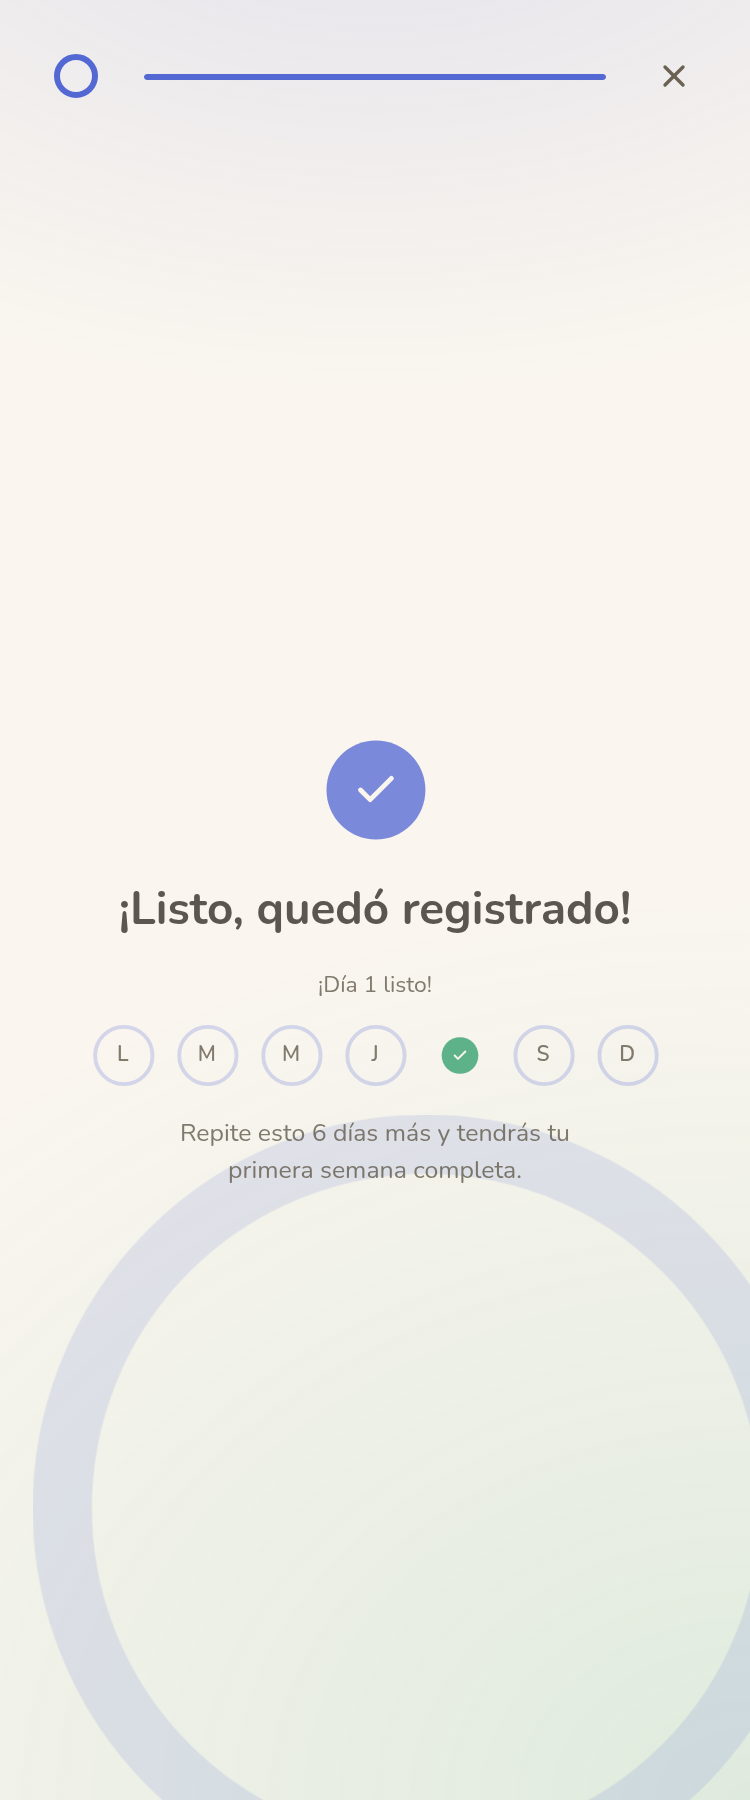
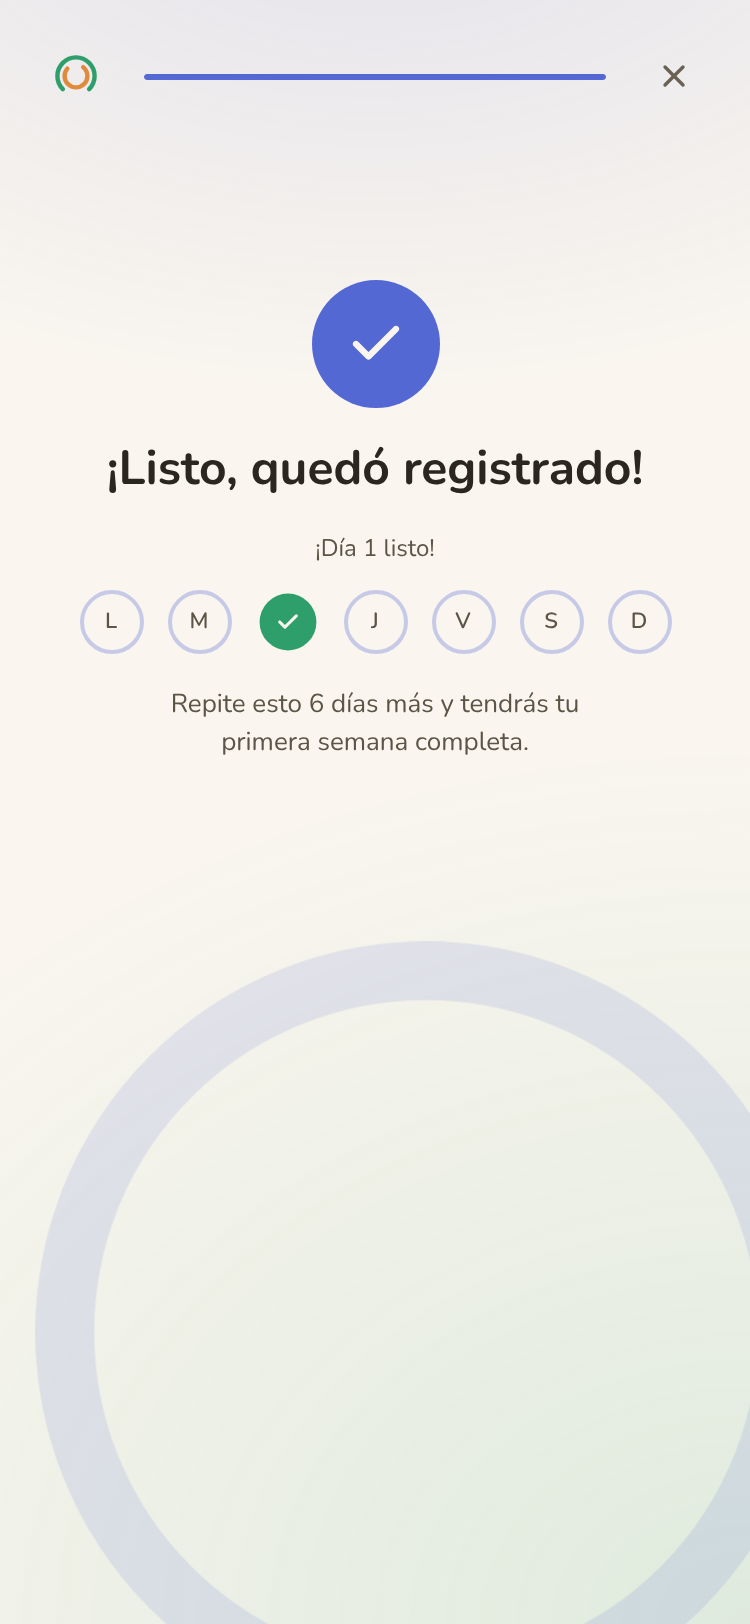
fix: quitar el espacio vacío del paso de compromiso en onboarding
Las 2 pantallas del paso de compromiso (sostener el botón, y "¡Listo!")
centraban el contenido en toda la altura disponible, dejando un hueco
vacío grande arriba del título. Ahora el contenido se ancla cerca del
encabezado y el anillo decorativo existente le da peso visual a la parte
baja.

Claude-Session: https://claude.ai/code/session_013BYtLeMwZuWh58hVzwvyD5

diff --git a/app/onboarding/page.tsx b/app/onboarding/page.tsx
@@ -238,7 +238,7 @@ export default function Onboarding() {
             initial={{ opacity: 0, scale: reduce ? 1 : 0.85 }}
             animate={{ opacity: 1, scale: 1 }}
             transition={{ duration: reduce ? 0.15 : 0.45, ease: [0.16, 1, 0.3, 1] }}
-            className="flex flex-1 flex-col items-center justify-center gap-4 text-center"
+            className="flex flex-1 flex-col items-center gap-4 pt-12 text-center"
           >
             <motion.span
               aria-hidden="true"
@@ -258,7 +258,7 @@ export default function Onboarding() {
             </p>
           </motion.div>
         ) : (
-          <div className="flex flex-1 flex-col items-center justify-center gap-10 text-center">
+          <div className="flex flex-1 flex-col items-center gap-10 pt-12 text-center">
             <div>
               <h2 className="text-balance text-[24px] font-bold leading-[1.2] text-[var(--text-primary)] [font-family:var(--font-display)]">
                 ¿Lista para tu primer Semáforo?

diff --git a/ESTADO.md b/ESTADO.md
@@ -1,6 +1,24 @@
 # ESTADO — Respira
 Última actualización: 2026-11-04 | Sesión actual: 7
 
+⏸ CHECKPOINT (2026-11-04, noche) — espacio vacío del paso de compromiso del onboarding,
+RESUELTO. De los 3 pendientes que la usuaria decidió dejar como estaban hace un rato, volvió
+sobre uno y pidió corregirlo explícitamente ("este me parece importante"): el hueco vacío grande
+arriba del título en las 2 pantallas del paso de compromiso (antes de sostener el botón, y la de
+"¡Listo, quedó registrado!"). Causa raíz: el bloque de contenido se centraba verticalmente en toda
+la altura disponible (`justify-center` en un contenedor alto) — al ser contenido corto, el espacio
+sobrante quedaba repartido arriba y abajo, y el de arriba se sentía "vacío" sin nada que lo
+ancle cerca del encabezado. Fix: se quitó el centrado y se ancló el contenido cerca de arriba con
+aire razonable (`pt-12`, 48px de la escala del proyecto) en los 2 estados — el anillo decorativo
+de fondo (ya existente, `FunnelFondo`) sigue dándole peso visual a la parte baja, que no queda
+vacía tampoco. Cambiado en `app/onboarding/page.tsx` (paso 6, ambos estados). Verificado: tsc ✓
+build ✓ · capturas reales a 375px en `docs/revisiones/onboarding-compromiso-antes-375.png` y
+`onboarding-celebracion-375.png`. Nota agregada en `docs/revisiones/onboarding-veredicto.md`. Los
+otros 4 defectos conocidos de esa pantalla (botón "Salir sin guardar", aviso de punto sin retorno,
+barra de progreso al 100% antes de tiempo, "Seguir aquí" mal etiquetado) y los otros 2 pendientes
+que la usuaria dejó así (anillo del Hero, detalles chicos) siguen sin tocarse — no re-abrir sin
+que ella lo pida. Pendiente: que la usuaria confirme viendo la captura real.
+
 ⏸ CHECKPOINT (2026-11-04, noche) — revisión de 2 pendientes viejos (landing/onboarding), de la
 sección "Problemas conocidos" que databan de septiembre. La usuaria pidió verlos de nuevo con
 capturas reales (le mostré landing-hero, landing "¿Te suena?", y los 2 pasos de compromiso del
@@ -871,7 +889,7 @@ App de hábito diario que acompaña a mujeres 25-35 LATAM a dejar de gastar por 
 ## Problemas conocidos ⚠
 - onboarding: APROBADO POR LA USUARIA EN SUSTANCIA (ver "Puertas de etapa") tras 16 pasadas del revisor-visual. Quedan 5 pendientes conocidos, NO bloqueantes, aceptados así por la usuaria el 2026-09-18 (detalle completo en docs/revisiones/onboarding-veredicto.md, sección "Decisión de la usuaria"):
   1. Botón "Salir sin guardar" del aviso de salida no cambia a "Salir" cuando ya te comprometiste — contradice el mensaje de arriba ("tu compromiso ya quedó guardado").
-  2. Las 2 pantallas del compromiso (antes de sostener el botón, y la de "¡Listo, quedó registrado!") tienen casi la mitad de la pantalla vacía arriba del título — confirmado con capturas reales en docs/revisiones/vivo/.
+  2. RESUELTO (2026-11-04) — las 2 pantallas del compromiso tenían casi la mitad de la pantalla vacía arriba del título. Causa: el bloque se centraba verticalmente en toda la altura disponible; al ser contenido corto, dejaba un hueco grande arriba y abajo. Fix: se quitó el centrado vertical y se ancló el contenido cerca del encabezado con aire razonable (48px) — el anillo decorativo de fondo llena la parte baja, así no queda vacía tampoco ahí. Ver nota completa en docs/revisiones/onboarding-veredicto.md.
   3. Sostener el botón para comprometerse es un punto sin retorno a las preguntas anteriores, y nada lo avisa antes de soltar el dedo.
   4. La barra de progreso llega a 100% antes de completar el gesto de sostener — comunica "ya terminaste" cuando falta el paso más importante.
   5. El botón "Seguir aquí" del aviso de salida, cuando ya te comprometiste, en realidad te lleva a la pantalla de planes — el texto no calza con la acción.

diff --git a/docs/revisiones/onboarding-veredicto.md b/docs/revisiones/onboarding-veredicto.md
@@ -87,3 +87,24 @@ a la Sesión 5 dejando estos 5 puntos anotados como pendientes conocidos**, sin 
 iterando esta pantalla ahora. No re-abrir esta pantalla ni volver a lanzar el
 revisor-visual sobre ella sin que la usuaria lo pida — queda **APROBADA POR LA USUARIA EN
 SUSTANCIA**, igual que la landing en la Sesión 3.
+
+## Actualización (2026-11-04) — defecto 2 RESUELTO
+
+La usuaria volvió a ver las capturas reales (Sesión 7) y pidió explícitamente corregir el
+defecto 2 (espacio vacío grande arriba del título, en las 2 pantallas del paso de
+compromiso) — dijo "este me parece importante". Causa raíz: el bloque de contenido de
+ambos estados usaba `justify-center` dentro de un contenedor `flex-1` alto; como el
+contenido (título+botón+preview, o check+título+preview) es corto, centrarlo verticalmente
+en toda la altura disponible dejaba un hueco grande arriba Y abajo — el de arriba se sentía
+"vacío" porque nada lo anclaba cerca del encabezado. Fix: se quitó `justify-center` y se
+agregó `pt-12` (48px, dentro de la escala 4·8·12·16·24·32·48·64) en los dos estados — el
+contenido ahora arranca cerca del encabezado con aire razonable, y el anillo decorativo de
+fondo (`FunnelFondo`, ya existente) sigue llenando visualmente la parte baja, que no queda
+vacía. Cambiado en `app/onboarding/page.tsx` (paso 6, ambos estados `comprometido` y no).
+Verificado: tsc ✓ build ✓ · capturas reales a 375px en
+`docs/revisiones/onboarding-compromiso-antes-375.png` y `onboarding-celebracion-375.png`.
+Los otros 4 defectos de la lista (botón "Salir sin guardar", aviso de punto sin retorno,
+barra de progreso al 100% antes de tiempo, "Seguir aquí" mal etiquetado) NO se tocaron —
+la usuaria solo pidió este. No se relanzó el revisor-visual completo (fix de layout
+puntual, no cambia estructura/copy/flujo). Pendiente: que la usuaria confirme viendo la
+captura real.

diff --git a/docs/revisiones/paywall-veredicto.md b/docs/revisiones/paywall-veredicto.md
@@ -391,3 +391,11 @@ El hook marcará `app/page.tsx`, `components/landing/EJEMPLO-page.tsx` y
 (son archivos distintos: la landing vive en `app/page.tsx`, el paywall en `app/paywall/page.tsx`).
 El cambio (reemplazar los emojis a color de "¿Te suena?" por íconos SVG) vive solo en la landing.
 Cero impacto; la certificación LISTA sigue vigente.
+
+## Trigésimo octava re-verificación (2026-11-04, noche — espacio vacío del paso de compromiso en onboarding)
+
+El hook marcará `app/onboarding/page.tsx` como más nuevo que este veredicto. Verificado por grep:
+`app/paywall/page.tsx` no importa ese archivo (son páginas distintas del flujo). El cambio
+(anclar el contenido del paso de compromiso cerca del encabezado en vez de centrarlo, quitando el
+hueco vacío de arriba) vive solo en la pantalla de onboarding. Cero impacto; la certificación
+LISTA sigue vigente.
